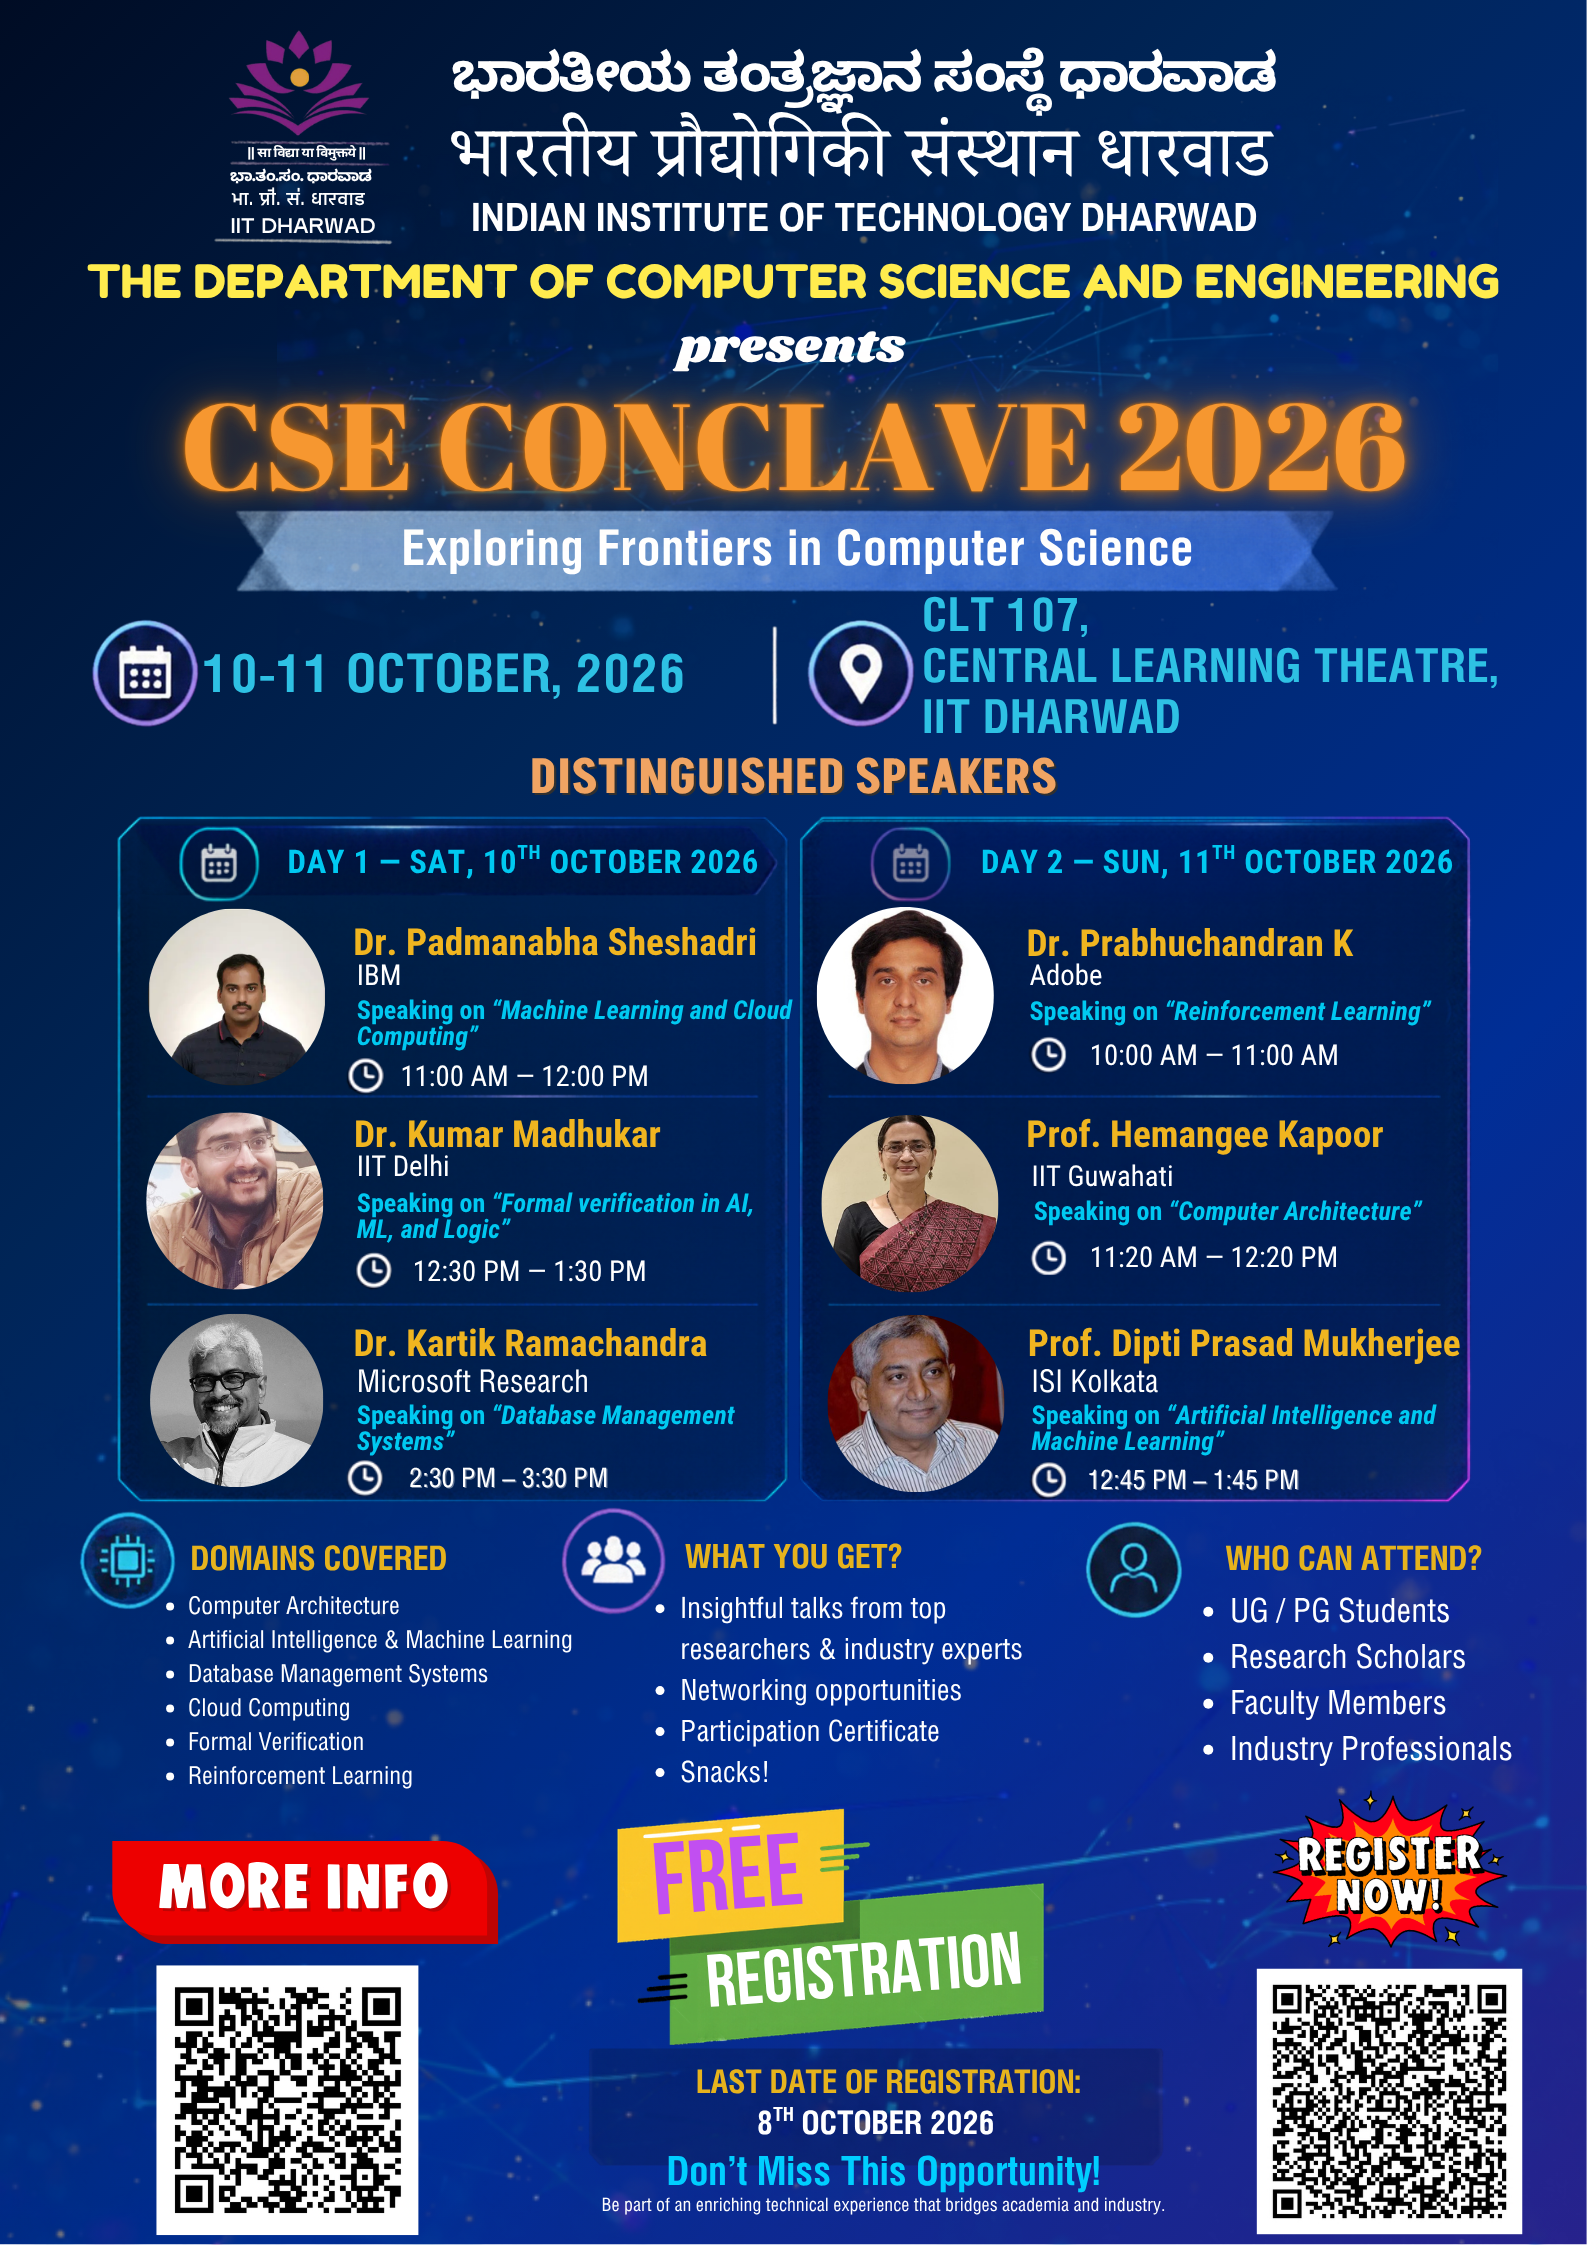
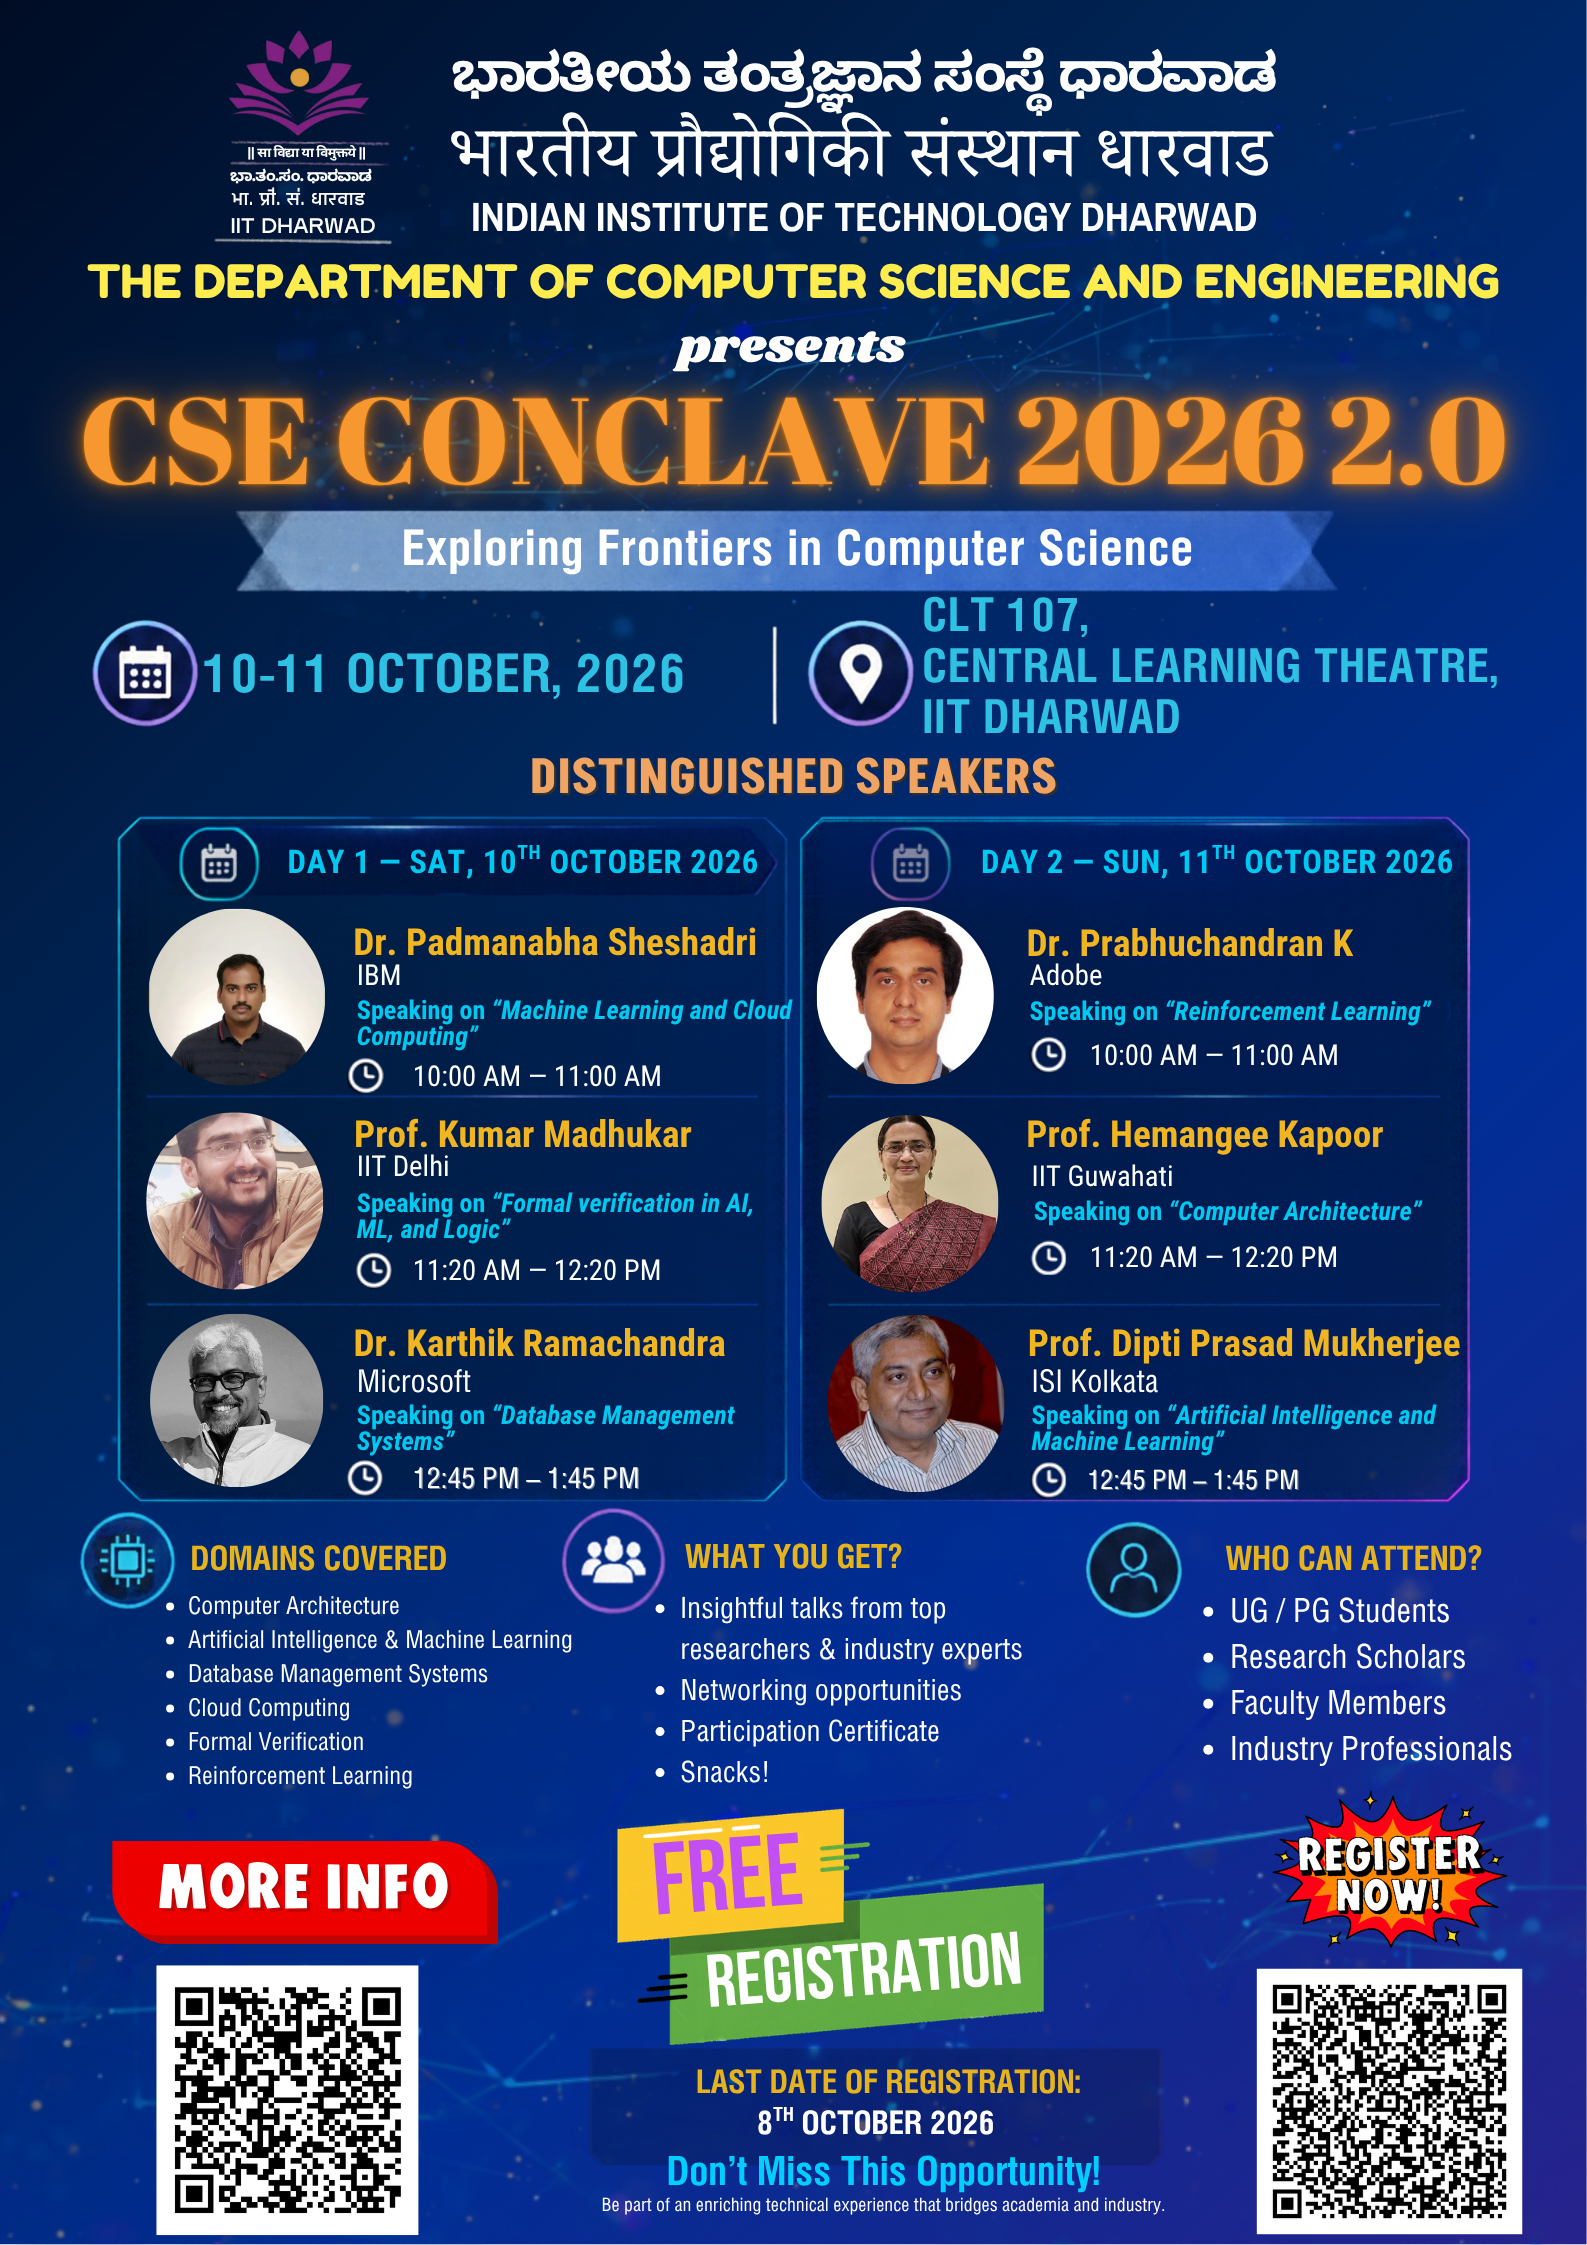
Updated Main Poster and Updated the Name

diff --git a/src/pages/CseConclave2.jsx b/src/pages/CseConclave2.jsx
@@ -176,7 +176,7 @@ console.log("Schedule:", schedule);
                   rel="noopener noreferrer"
                   className="font-medium text-blue-600 hover:underline"
                 >
-                  Dr. Kumar Madhukar
+                  Prof. Kumar Madhukar
                 </a>{" "}
                 – IIT Delhi
               </li>
